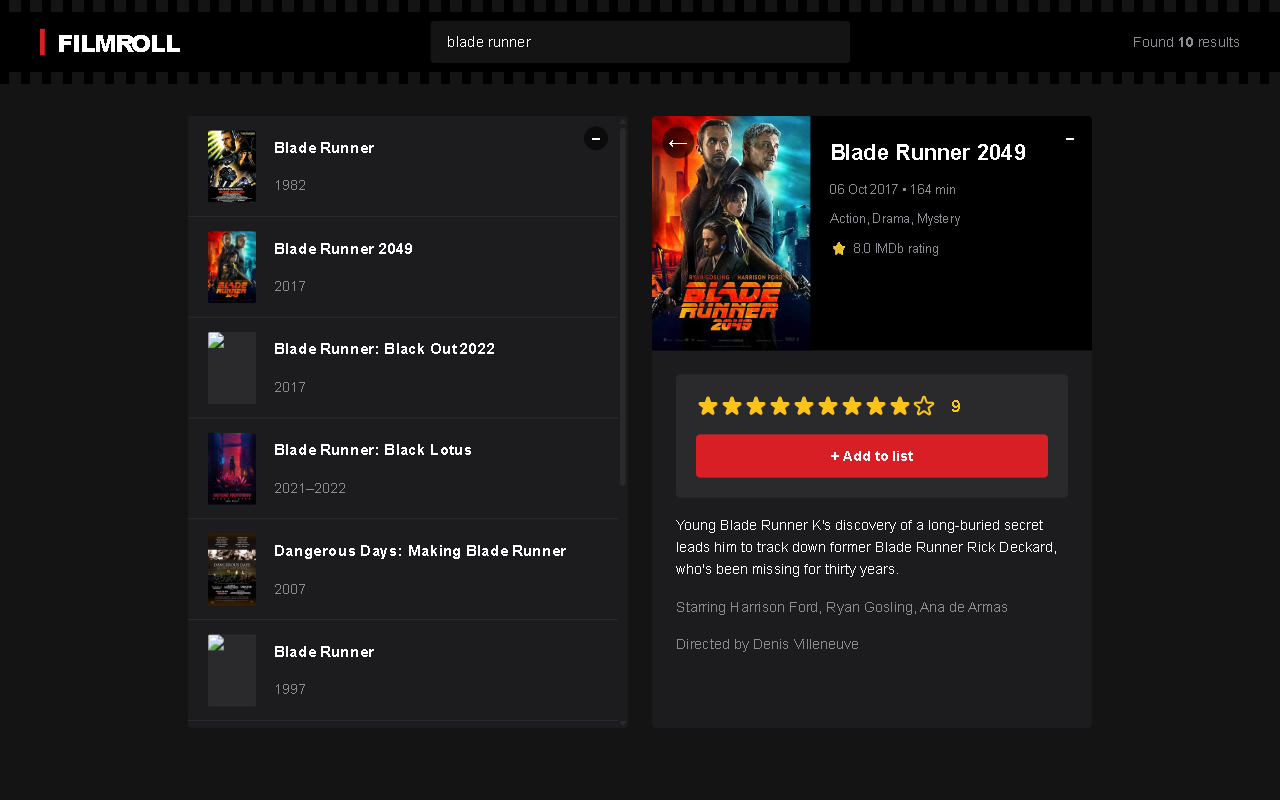
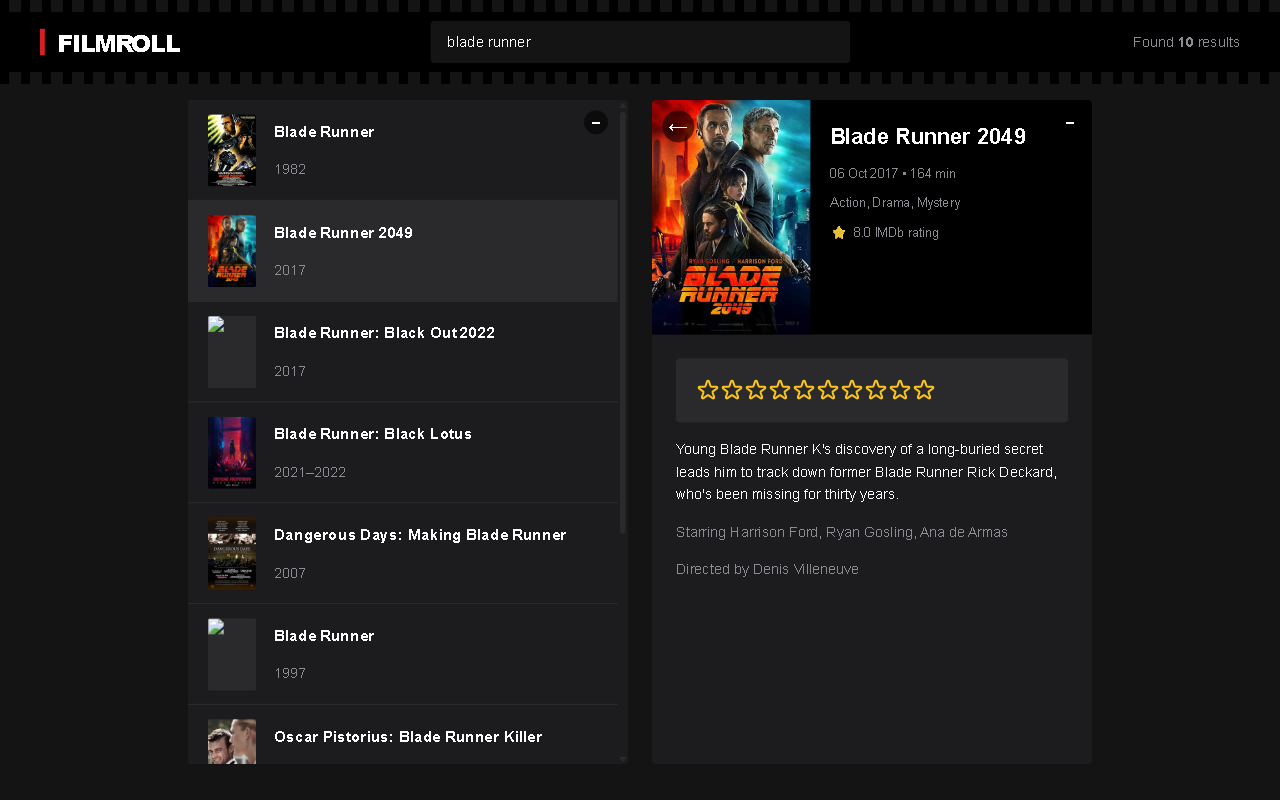
Make the two panels taller
Tighter margins above and below so the list and details panels use the
full window height. Width is unchanged.

diff --git a/src/index.css b/src/index.css
@@ -26,7 +26,7 @@ body {
   font-family: "Helvetica Neue", Helvetica, Arial, sans-serif;
   color: var(--paper);
   background-color: var(--ink);
-  padding: 0 0 2.4rem;
+  padding: 0 0 1.2rem;
   -webkit-font-smoothing: antialiased;
 }
 
@@ -129,9 +129,11 @@ body {
 /* ── Panels ──────────────────────────────────────────────── */
 
 .main {
-  margin-top: 3.2rem;
+  margin-top: 1.6rem;
   padding: 0 4rem;
-  height: calc(100vh - 8.4rem - 2.4rem - 3.2rem - 4.8rem);
+  /* Fill what is left under the nav: 10.8rem of strip, this margin, and the
+     1.2rem of body padding at the bottom. */
+  height: calc(100vh - 10.8rem - 1.6rem - 1.2rem);
   display: flex;
   gap: 2.4rem;
   justify-content: center;
@@ -445,7 +447,7 @@ body {
   .box {
     width: 100%;
     max-width: 44rem;
-    max-height: 60vh;
+    max-height: 65vh;
   }
 }
 
